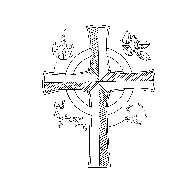
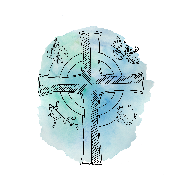
borders and watercolours

diff --git a/src/_includes/posts.html b/src/_includes/posts.html
@@ -3,14 +3,13 @@ layout: default
 prism: true
 ---
 <div class="flex justify-center">
-    <img class="w-1/2 h-full object-top object-cover inline-block" src="{{image}}">
+    <img class="w-1/2 h-full watercolour object-top object-cover inline-block" src="{{image}}">
 </div>
 <div class="container max-w-4xl mt-6  px-6">
-    <div class="title-box pb-5 mb-5 border-b border-gray-100">
-        <h1 class="font-bold">{{title}}</h1>
+    <div class="flex justify-center pb-5 mb-5 border-b border-gray-100">
+        <h1 class="inline-block p-5 scribble-border font-bold">{{title}}</h1>
     </div>
     <article class="prose lg:prose-xl my-4 mx-auto">
         {{ content | safe }}
     </article>
-
 </div>

diff --git a/src/index.html b/src/index.html
@@ -5,7 +5,7 @@ path: home
 ---
 
 <div class="container mx-auto flex flex-col justify-center items-center">
-  <img src="/static/img/discipleship_logo_no_background.png" class="w-1/2 my-5">
+  <img src="/static/img/discipleship_logo_no_background.png" class="watercolour w-1/2 my-5">
   <div class ="mx-10" >
     <p> <span class="scribble">DISCIPLESHIP</span> can be explained and explored in a number of ways. It lies at the heart of what it means to be a Christian and Church.
     Life for the follower of Jesus is about being and making disciples.

diff --git a/src/static/css/tailwind.css b/src/static/css/tailwind.css
@@ -27,6 +27,17 @@ h1,h2,h3, .scribble {
   font-family: 'SketchBlockW03-Bold', fallback, sans-serif;
 }
 
+.watercolour {
+  @apply p-20;
+  background-image: url("/static/img/watercolour.png");
+  background-size: 100% 100%;
+}
+
+.scribble-border {
+  background-image: url("/static/img/Box.svg");
+  background-size: 100% 100%;
+}
+
 /* Syntax Highlighting*/
 body :not(pre) > code[class*="language-"],
 body pre[class*="language-"] {
